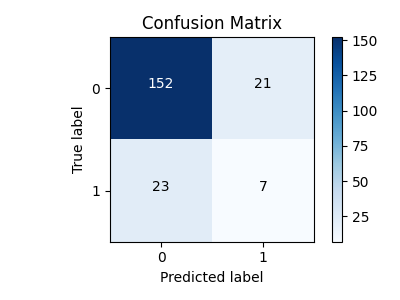
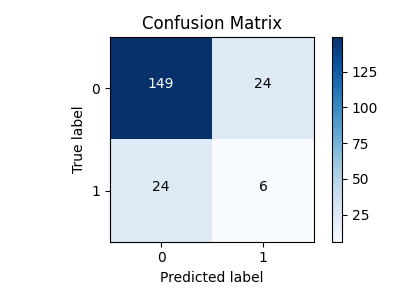
(#7) update pipeline

diff --git a/reports/50krecords/evaluation_report_50krecords.html b/reports/50krecords/evaluation_report_50krecords.html
@@ -17,7 +17,7 @@
             <h1>Evaluation Report</h1>
             <div class="key-metrics">
               <h2>Key Metrics</h2>
-              <ul><li><strong>AUC:</strong> 0.6140</li><li><strong>Accuracy:</strong> 0.7833</li><li><strong>Precision:</strong> 0.2500</li><li><strong>Recall:</strong> 0.2333</li><li><strong>F1-Score:</strong> 0.2414</li></ul>
+              <ul><li><strong>AUC:</strong> 0.6397</li><li><strong>Accuracy:</strong> 0.7635</li><li><strong>Precision:</strong> 0.2000</li><li><strong>Recall:</strong> 0.2000</li><li><strong>F1-Score:</strong> 0.2000</li></ul>
             </div>
             <h2>Confusion Matrix</h2><img src="confusion_matrix.png" width="300">
             <h2>ROC Curve</h2><img src="roc_curve.png" width="300">
@@ -25,12 +25,12 @@
             <h2>Classification Report</h2>
             <pre>              precision    recall  f1-score   support
 
-           0     0.8686    0.8786    0.8736       173
-           1     0.2500    0.2333    0.2414        30
+           0     0.8613    0.8613    0.8613       173
+           1     0.2000    0.2000    0.2000        30
 
-    accuracy                         0.7833       203
-   macro avg     0.5593    0.5560    0.5575       203
-weighted avg     0.7772    0.7833    0.7801       203
+    accuracy                         0.7635       203
+   macro avg     0.5306    0.5306    0.5306       203
+weighted avg     0.7635    0.7635    0.7635       203
 </pre>
           </body>
         </html>
